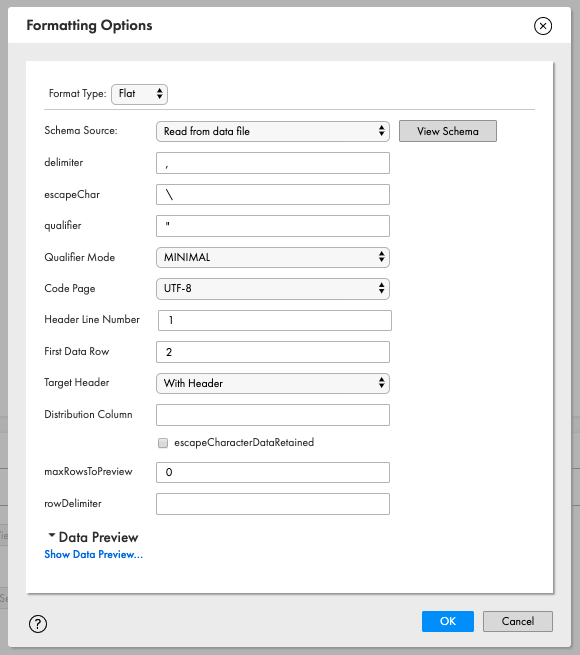
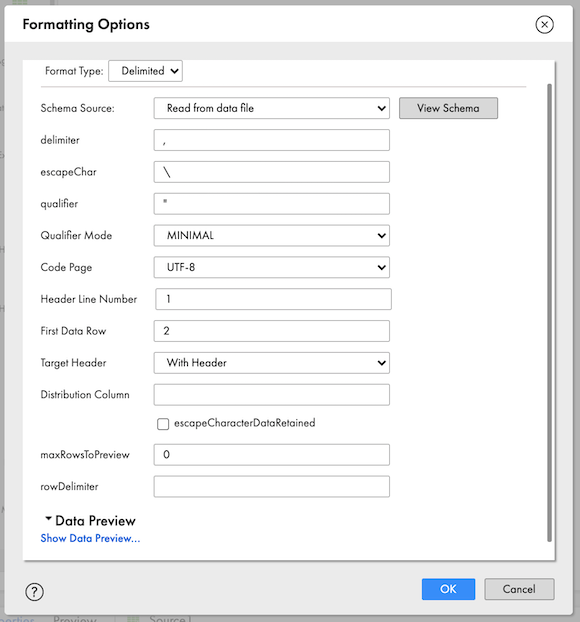
Informatica data source UI change
Changed 'flat' file importing to 'delimited'

diff --git a/help/tutorial-comprehensive-technical/modules/module5/ex3.md b/help/tutorial-comprehensive-technical/modules/module5/ex3.md
@@ -131,7 +131,7 @@ Click **Formatting Options** to define the structure of the template.
 
 ![ETL](./images/2wf13.png)
 
-In the popup, change the Format Type from **None** to **Flat**.
+In the popup, change the Format Type from **None** to **Delimited**.
 
 ![ETL](./images/2wf14.png)
 
@@ -206,7 +206,7 @@ Click **Formatting Options** to define the structure of the template.
 
 ![ETL](./images/2wf13.png)
 
-In the popup, change the Format Type from **None** to **Flat**.
+In the popup, change the Format Type from **None** to **Delimited**.
 
 ![ETL](./images/2wf14.png)
 

diff --git a/help/tutorial-comprehensive-technical/modules/module5/ex4.md b/help/tutorial-comprehensive-technical/modules/module5/ex4.md
@@ -131,7 +131,7 @@ Click **Formatting Options** to define the structure of the template.
 
 ![ETL](./images/2wf13.png)
 
-In the popup, change the Format Type from **None** to **Flat**.
+In the popup, change the Format Type from **None** to **Delimited**.
 
 ![ETL](./images/2wf14.png)
 
@@ -195,7 +195,7 @@ Click **Formatting Options** to define the structure of the template.
 
 ![ETL](./images/2wf13.png)
 
-In the popup, change the Format Type from **None** to **Flat**.
+In the popup, change the Format Type from **None** to **Delimited**.
 
 ![ETL](./images/2wf14.png)
 
